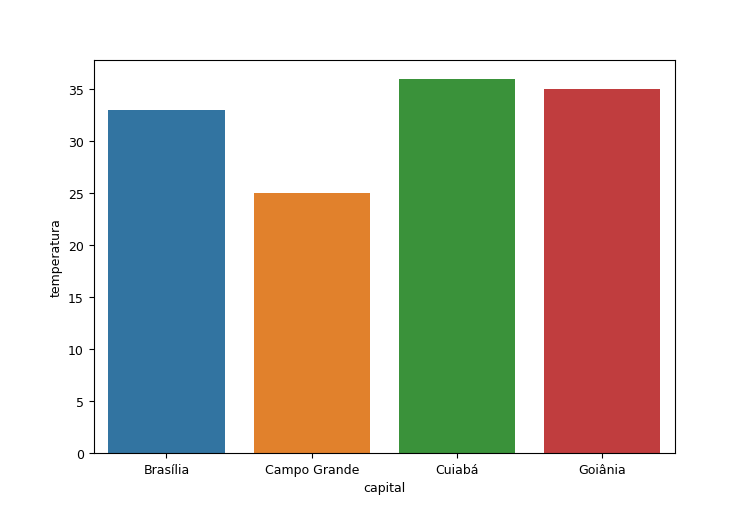
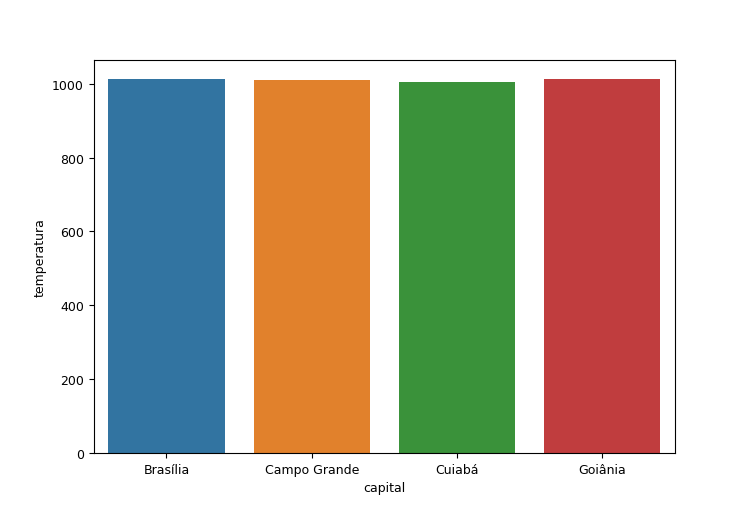
troquei a visualização de imagens para .png removi as imagens .gif criei uma função que verifica se a data no arquivo json e do link da xml estão batendo, caso não esteja atualiza os dados

diff --git a/static/javascript.js b/static/javascript.js
@@ -34,7 +34,7 @@ $(function(){
             
             for (let i of lista){
                 sec_dois.innerHTML += `<h1>${i}</h1><div class="posicao-${i}">
-                    <img src="../static/graficos/grafico_${i}_${valor_select}.gif" alt="Gráfico ${i} ${valor_select}">
+                    <img src="../static/graficos/grafico_${i}_${valor_select}.png" alt="Gráfico ${i} ${valor_select}">
                 </div>`
             }
             $(".sec_dois").show()

diff --git a/comandos_BD.py b/comandos_BD.py
@@ -114,79 +114,70 @@ def insertValores():
     query(Conexao_BD.vcon, sql)
 
 #ADICIONAR OS GRAFICOS
-def query_cria_grafico(tygrafico):
+def query_cria_grafico():
     compara =  function_compara()
 
     #ESSE IF VAI IMPERDIR QUE OS MESMOS GRAFICOS SE REPITAM
-    if compara == True:
-        # ESTRUTURA DE REPETIÇÃO QUE VAI GERAR OS GRAFICOS
-        lista_graficos = ['Nordeste' , 'Norte', 'Centro-Oeste', 'Sul', 'Sudeste']
+    # if compara == True:
+    # ESTRUTURA DE REPETIÇÃO QUE VAI GERAR OS GRAFICOS
+    lista_graficos = ['Nordeste' , 'Norte', 'Centro-Oeste', 'Sul', 'Sudeste']
 
-        for repet in lista_graficos:
-            sql = f"SELECT  capitais.capital, valores.pressao, valores.temperatura, valores.umidade, valores.vento_dir, valores.vento_int, valores.atualizacao FROM valores, capitais WHERE valores.codigo = capitais.codigo  and capitais.regiao = '{repet}'"
-            res = consultar(Conexao_BD.vcon, sql)
-
-            dic = {
-                'capital': "",
-                'pressao': "",
-                'temperatura': "",
-                'umidade': "",
-                'vento_dir': "",
-                'vento_int': "",
-            }
-            colunas = pd.DataFrame(res) # ESSE METODO COLOCA NOMES NAS COLUNAS
-            # print(colunas)
-            dic['capital'] = colunas[0]
-            dic['pressao'] = colunas[1]
-            dic['temperatura'] = colunas[2]
-            dic['umidade'] = colunas[3]
-            dic['vento_dir'] = colunas[4]
-            dic['vento_int'] = colunas[5]
-
-            # sns.set(rc={'figure.figsize': (7.2, 5), 'font.size': 5})
-            # sns.set(rc={})    width: 642px;height: 483px;
-            plt.rcParams.update({'figure.figsize': (7.5, 5.1), 'font.size': 9})
-
-            if tygrafico == 'pressao':
-                colunas = pd.DataFrame(dic, columns=['capital', 'pressao'])
-                plot = sns.barplot(data=colunas, x='capital', y='pressao')
-
-            elif tygrafico == 'temperatura': 
-                colunas = pd.DataFrame(dic, columns=['capital', 'temperatura'])
-                plot = sns.barplot(data=colunas, x='capital', y='temperatura')
-
-            elif tygrafico == 'umidade': 
-                colunas = pd.DataFrame(dic, columns=['capital', 'umidade'])
-                plot = sns.barplot(data=colunas, x='capital', y='umidade')
-
-            elif tygrafico == 'vento_dir': 
-                colunas = pd.DataFrame(dic, columns=['capital', 'vento_dir'])
-                plot = sns.barplot(data=colunas, x='capital', y='vento_dir')
-                
-            elif tygrafico == 'vento_int': 
-                colunas = pd.DataFrame(dic, columns=['capital', 'vento_int'])
-                plot = sns.barplot(data=colunas, x='capital', y='vento_int')
-            
-            else: break
-
-            plot.get_figure().savefig(f"static/graficos/grafico_{repet}_{tygrafico}.png")
-            plt.close()
-            
-            # esse metodo vai selecionar a imagem e vai exclui-la da pasta
-            imagem = Image.open(os.path.join(f"static/graficos/grafico_{repet}_{tygrafico}.png")) # vai selecionar a imagem
-            redimencionarImagem = imagem.resize((550, 400)) # vai redimencionar a imagem
-            nome_sem_ext = os.path.splitext(f"static/graficos/grafico_{repet}_{tygrafico}.png")[0]
-
-            redimencionarImagem.save(os.path.join(nome_sem_ext+ '.gif' )) # vai salvar a imagem como o novo formato
-        # os.remove(f"static/graficos/grafico_{repet}_{tygrafico}.png")
+    for repet in lista_graficos:
+        sql = f"SELECT  capitais.capital, valores.pressao, valores.temperatura, valores.umidade, valores.vento_dir, valores.vento_int, valores.atualizacao FROM valores, capitais WHERE valores.codigo = capitais.codigo  and capitais.regiao = '{repet}'"
+        res = consultar(Conexao_BD.vcon, sql)
+        dic = {
+            'capital': "",
+            'pressao': "",
+            'temperatura': "",
+            'umidade': "",
+            'vento_dir': "",
+            'vento_int': "",
+        }
+        colunas = pd.DataFrame(res) # ESSE METODO COLOCA NOMES NAS COLUNAS
+        dic['capital'] = colunas[0]
+        dic['pressao'] = colunas[1]
+        dic['temperatura'] = colunas[2]
+        dic['umidade'] = colunas[3]
+        dic['vento_dir'] = colunas[4]
+        dic['vento_int'] = colunas[5]
         
+        plt.rcParams.update({'figure.figsize': (7.5, 5.1), 'font.size': 9})
+
+    # if tygrafico == 'pressao':
+        colunas = pd.DataFrame(dic, columns=['capital', 'pressao'])
+        plot = sns.barplot(data=colunas, x='capital', y='pressao')
+        plot.get_figure().savefig(f"static/graficos/grafico_{repet}_pressao.png")
+    # elif tygrafico == 'temperatura': 
+        colunas = pd.DataFrame(dic, columns=['capital', 'temperatura'])
+        plot = sns.barplot(data=colunas, x='capital', y='temperatura')
+        plot.get_figure().savefig(f"static/graficos/grafico_{repet}_temperatura.png")
+    # elif tygrafico == 'umidade': 
+        colunas = pd.DataFrame(dic, columns=['capital', 'umidade'])
+        plot = sns.barplot(data=colunas, x='capital', y='umidade')
+        plot.get_figure().savefig(f"static/graficos/grafico_{repet}_umidade.png")
+    # elif tygrafico == 'vento_dir': 
+        colunas = pd.DataFrame(dic, columns=['capital', 'vento_dir'])
+        plot = sns.barplot(data=colunas, x='capital', y='vento_dir')
+        plot.get_figure().savefig(f"static/graficos/grafico_{repet}_vento_dir.png")
+    # elif tygrafico == 'vento_int': 
+        colunas = pd.DataFrame(dic, columns=['capital', 'vento_int'])
+        plot = sns.barplot(data=colunas, x='capital', y='vento_int')
+        plot.get_figure().savefig(f"static/graficos/grafico_{repet}_vento_int.png")
+
+        # plot.get_figure().savefig(f"static/graficos/grafico_{repet}_{tygrafico}.png")
+        plt.close()
+    
+        # esse metodo vai selecionar a imagem e vai exclui-la da pasta
+        # imagem = Image.open(os.path.join(f"static/graficos/grafico_{repet}_{tygrafico}.png")) # vai selecionar a imagem
+        # redimencionarImagem = imagem.resize((550, 400)) # vai redimencionar a imagem
+        # nome_sem_ext = os.path.splitext(f"static/graficos/grafico_{repet}_{tygrafico}.png")[0]
+
+        # redimencionarImagem.save(os.path.join(nome_sem_ext+ '.gif' )) # vai salvar a imagem como o novo formato
+        # os.remove(f"static/graficos/grafico_{repet}_{tygrafico}.png")
+        print("FEITO")
         # from datetime import  date
         # data_e_hora_atuais = date.today()
         # print(data_e_hora_atuais)
-
-
-    print("FEITO")
- 
 
 # query_cria_grafico('umidade')
 # query_cria_grafico('pressao')
@@ -200,7 +191,6 @@ def atualizarValores():
     data = chamaXML()
 
     dec = data['capitais']['metar']
-    # print(f"{compara[0][0]} : {dec[0]['atualizacao']}")
     if compara == True:
         for i in  range(0, len(dec)):
             if dec[i]['tempo_desc'] ==  "PredomÃnio de Sol":
@@ -211,23 +201,29 @@ def atualizarValores():
             sql = f"INSERT or REPLACE INTO valores  VALUES ('{dec[i]['codigo']}','{dec[i]['atualizacao']}',{int(dec[i]['pressao'])},{int(dec[i]['temperatura'])},'{dec[i]['tempo']}','{dec[i]['tempo_desc']}',{int(dec[i]['umidade'])},{int(dec[i]['vento_dir'])},{int(dec[i]['vento_int'])},'{dec[i]['intensidade']}') " 
             query(Conexao_BD.vcon, sql)
         criaConteudoJSON() # VAI ATUALIZAR O ARQUIVO JSON
+        query_cria_grafico()
         
-    # else: 
-    #     print("ESTÃO IGUAIS OU DEU ERRO")
+
+#FUNÇÃO QUE VAI COMPARAR SE OS DADOS DO ARQUIVO JSON ESTÃO ATUALIZADOS
 def function_compara():
-    sql_compara = "SELECT atualizacao FROM valores where codigo = 'SBBE'"
-    compara = consultar(Conexao_BD.vcon, sql_compara)
+    # sql_compara = "SELECT atualizacao FROM valores where codigo = 'SBBE'"
+    # compara = consultar(Conexao_BD.vcon, sql_compara)
 
+    with open('static/conteudo_secao.json','r') as json_file:
+        dados = json.load(json_file)
+    
     data = chamaXML()
-    dec = data['capitais']['metar']
+    dec = data['capitais']['metar'][0]['atualizacao']
 
-    if compara[0][0] != dec[0]['atualizacao']:
+    print(f'{dados[0][2]}  ::  {dec}')
+
+    if dados[0][2] != dec:
         return True
-    print('False')
+    
     return False
 
 
-# print(compara)
+function_compara()
 # criarTabelas()
 # insertCapitais()
 # insertValores()

diff --git a/app.py b/app.py
@@ -13,15 +13,10 @@ def index():
 @app.route('/graficos', methods=['GET', 'POST'])
 def pag_graficos():
     # vai pegar o valor da requisição ajax e va converter o dado recebido do tipo byetes em tipo string
-    tygrafico = request.get_data()
-    if tygrafico == False:
-        print('Verdade')
-        converte = tygrafico.decode("utf-8")
-        converte = converte.replace('tygrafico=', '')
-        comandos_BD.query_cria_grafico(converte)
-    else:
-        print('Verdade')
-        
+    # tygrafico = request.get_data()
+    # converte = tygrafico.decode("utf-8")
+    # converte = converte.replace('tygrafico=', '')
+    # comandos_BD.query_cria_grafico(converte)
     return render_template('secao_graficos.html')   
 
 
